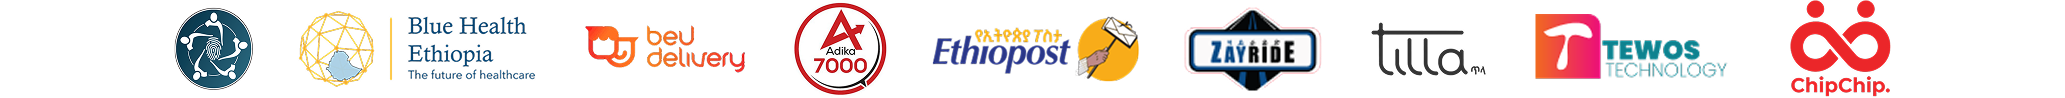
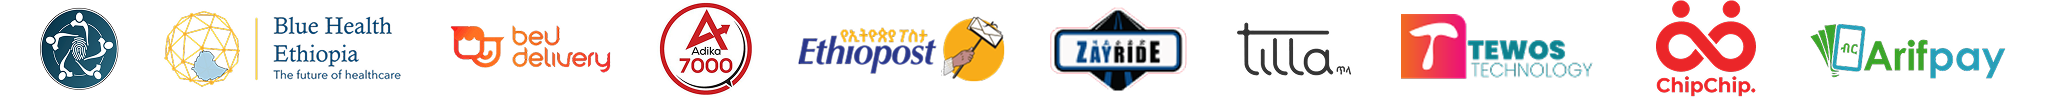
feat: Add arif pay partner and author image ui fix

diff --git a/src/sections/Testimonal.tsx b/src/sections/Testimonal.tsx
@@ -48,51 +48,53 @@ const testimonials = [
 
 const responsive = {
     desktop: {
-        breakpoint: { max: 3000, min: 1024 },
+        breakpoint: {max: 3000, min: 1024},
         items: 1,
         slidesToSlide: 1
     },
     tablet: {
-        breakpoint: { max: 1024, min: 464 },
+        breakpoint: {max: 1024, min: 464},
         items: 1,
         slidesToSlide: 1
     },
     mobile: {
-        breakpoint: { max: 464, min: 0 },
+        breakpoint: {max: 464, min: 0},
         items: 1,
         slidesToSlide: 1
     }
 };
 
-const CustomLeftArrow = ({ onClick }: { onClick?: () => void }) => {
+const CustomLeftArrow = ({onClick}: { onClick?: () => void }) => {
     return (
         <button
             onClick={onClick}
             className="absolute hidden xl:block bottom-0 left-4 md:bottom-auto md:left-0 lg:left-4 xl:left-[400px] md:top-1/2 md:-translate-y-1/2 z-10 bg-white dark:bg-[#0A0A0F] hover:bg-gray-50 dark:hover:bg-gray-800 rounded-full p-3 shadow-lg transition-all duration-200 focus:outline-none focus:ring-2 focus:ring-[#FFA500] border border-gray-100 dark:border-[#15151f]"
             aria-label="Previous testimonial"
         >
-            <svg className="w-5 h-5 text-gray-600 dark:text-gray-300" fill="none" stroke="currentColor" viewBox="0 0 24 24">
-                <path strokeLinecap="round" strokeLinejoin="round" strokeWidth={2} d="M15 19l-7-7 7-7" />
+            <svg className="w-5 h-5 text-gray-600 dark:text-gray-300" fill="none" stroke="currentColor"
+                 viewBox="0 0 24 24">
+                <path strokeLinecap="round" strokeLinejoin="round" strokeWidth={2} d="M15 19l-7-7 7-7"/>
             </svg>
         </button>
     );
 };
 
-const CustomRightArrow = ({ onClick }: { onClick?: () => void }) => {
+const CustomRightArrow = ({onClick}: { onClick?: () => void }) => {
     return (
         <button
             onClick={onClick}
             className="absolute hidden xl:block bottom-0 right-4 md:bottom-auto md:right-0 lg:right-4 xl:right-[400px] md:top-1/2 md:-translate-y-1/2 z-10 bg-white dark:bg-[#0A0A0F] hover:bg-gray-50 dark:hover:bg-gray-800 rounded-full p-3 shadow-lg transition-all duration-200 focus:outline-none focus:ring-2 focus:ring-[#FFA500] border border-gray-100 dark:border-[#15151f]"
             aria-label="Next testimonial"
         >
-            <svg className="w-5 h-5 text-gray-600 dark:text-gray-300" fill="none" stroke="currentColor" viewBox="0 0 24 24">
-                <path strokeLinecap="round" strokeLinejoin="round" strokeWidth={2} d="M9 5l7 7-7 7" />
+            <svg className="w-5 h-5 text-gray-600 dark:text-gray-300" fill="none" stroke="currentColor"
+                 viewBox="0 0 24 24">
+                <path strokeLinecap="round" strokeLinejoin="round" strokeWidth={2} d="M9 5l7 7-7 7"/>
             </svg>
         </button>
     );
 };
 
-const CustomDot = ({ onClick, active }: { onClick?: () => void; active?: boolean }) => {
+const CustomDot = ({onClick, active}: { onClick?: () => void; active?: boolean }) => {
     return (
         <button
             onClick={onClick}
@@ -133,10 +135,10 @@ export default function Testimonial() {
                     deviceType="desktop"
                     dotListClass="flex justify-center mt-8 space-x-2"
                     itemClass="carousel-item-padding-40-px"
-                    customLeftArrow={<CustomLeftArrow />}
-                    customRightArrow={<CustomRightArrow />}
+                    customLeftArrow={<CustomLeftArrow/>}
+                    customRightArrow={<CustomRightArrow/>}
                     showDots={true}
-                    customDot={<CustomDot />}
+                    customDot={<CustomDot/>}
                     pauseOnHover={true}
                     swipeable={true}
                     draggable={true}
@@ -150,11 +152,13 @@ export default function Testimonial() {
                 >
                     {testimonials.map((item, index) => (
                         <div key={index} className="px-4 md:px-8">
-                            <div className="max-w-4xl mx-auto bg-white dark:bg-[#0A0A0F] rounded-xl p-6 md:p-8 md:py-4 mb-6 transition-all duration-300 border border-gray-100/50 dark:border-[#15151f]">
+                            <div
+                                className="max-w-4xl mx-auto bg-white dark:bg-[#0A0A0F] rounded-xl p-6 md:p-8 md:py-4 mb-6 transition-all duration-300 border border-gray-100/50 dark:border-[#15151f]">
 
                                 <div className="flex items-center justify-between mb-6">
                                     <div className="w-[80px] h-[30px] rounded-lg flex items-center justify-center">
-                                        <Image src={item.company.logo} alt={item.company.name} width={item.company.width} height={item.company.height}/>
+                                        <Image src={item.company.logo} alt={item.company.name}
+                                               width={item.company.width} height={item.company.height}/>
                                     </div>
                                     <div className="flex gap-0.5">
                                         {[...Array(5)].map((_, i) => (
@@ -164,20 +168,23 @@ export default function Testimonial() {
                                                 fill="currentColor"
                                                 viewBox="0 0 20 20"
                                             >
-                                                <path d="M9.049 2.927c.3-.921 1.603-.921 1.902 0l1.07 3.292a1 1 0 00.95.69h3.462c.969 0 1.371 1.24.588 1.81l-2.8 2.034a1 1 0 00-.364 1.118l1.07 3.292c.3.921-.755 1.688-1.54 1.118l-2.8-2.034a1 1 0 00-1.175 0l-2.8 2.034c-.784.57-1.838-.197-1.539-1.118l1.07-3.292a1 1 0 00-.364-1.118L2.98 8.72c-.783-.57-.38-1.81.588-1.81h3.461a1 1 0 00.951-.69l1.07-3.292z"/>
+                                                <path
+                                                    d="M9.049 2.927c.3-.921 1.603-.921 1.902 0l1.07 3.292a1 1 0 00.95.69h3.462c.969 0 1.371 1.24.588 1.81l-2.8 2.034a1 1 0 00-.364 1.118l1.07 3.292c.3.921-.755 1.688-1.54 1.118l-2.8-2.034a1 1 0 00-1.175 0l-2.8 2.034c-.784.57-1.838-.197-1.539-1.118l1.07-3.292a1 1 0 00-.364-1.118L2.98 8.72c-.783-.57-.38-1.81.588-1.81h3.461a1 1 0 00.951-.69l1.07-3.292z"/>
                                             </svg>
                                         ))}
                                     </div>
                                 </div>
 
-                                <blockquote className="text-gray-700 dark:text-gray-200 text-sm md:text-base leading-relaxed mb-6">
+                                <blockquote
+                                    className="text-gray-700 dark:text-gray-200 text-sm md:text-base leading-relaxed mb-6">
                                     "{item.message}"
                                 </blockquote>
 
                                 <div className="flex items-center gap-3">
                                     <div className="w-12 h-12 rounded-full flex items-center justify-center">
                                         <span className="text-sm font-medium text-gray-600 dark:text-gray-300">
-                                            <Image src={item.author.image} alt={item.author.name} width={40} height={40} className="object-contain"/>
+                                            <Image src={item.author.image} alt={item.author.name} width={40} height={40}
+                                                   className="object-cover h-auto aspect-square"/>
                                         </span>
                                     </div>
                                     <div>
